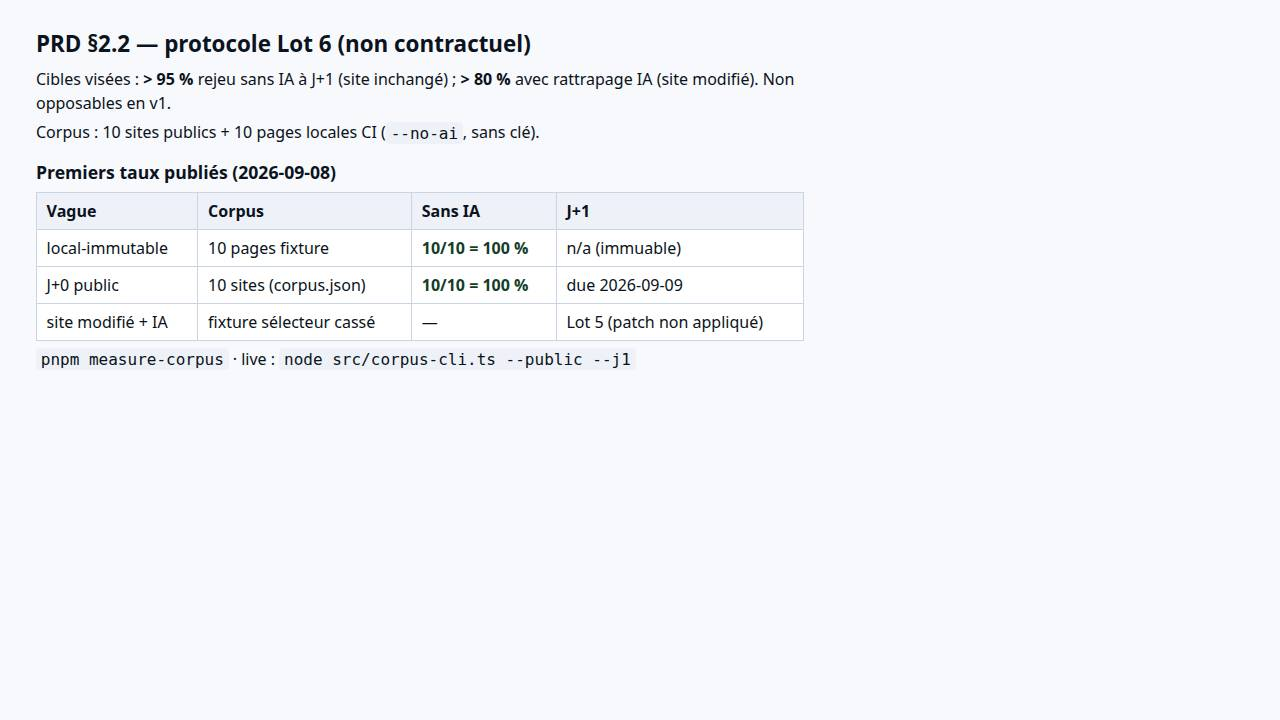
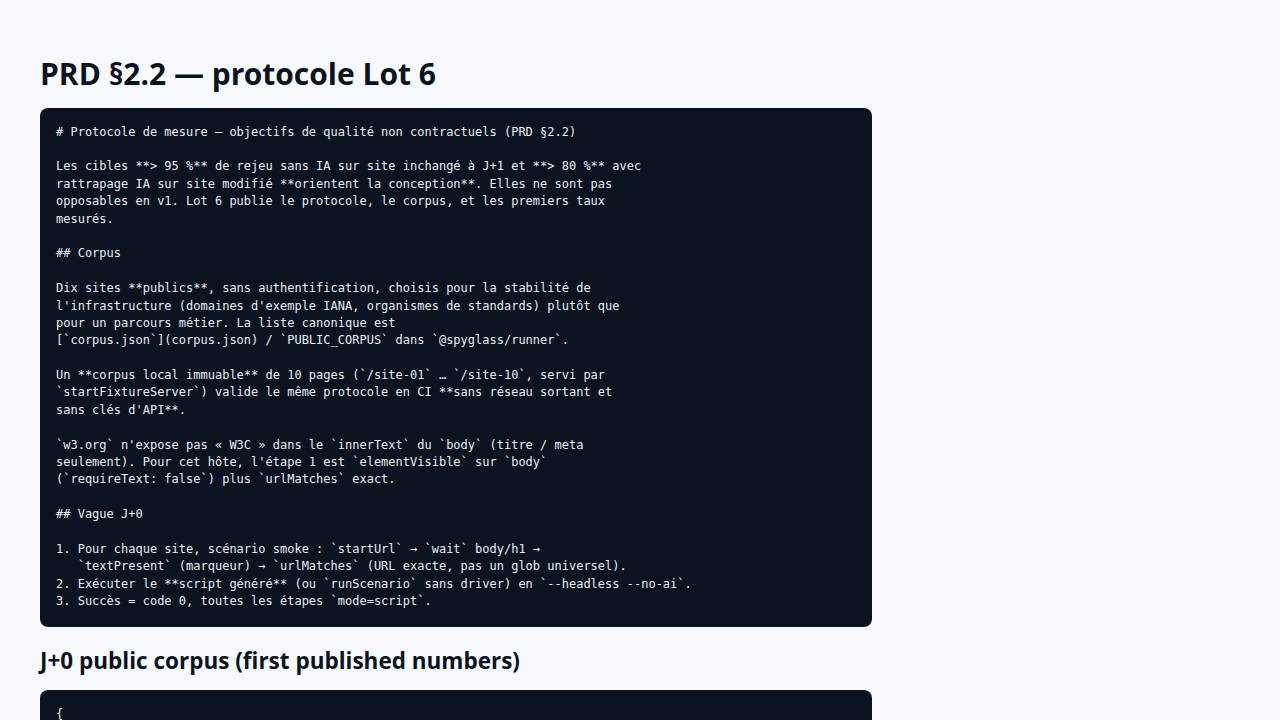
fix(lot-6): capture evidence labels runScenario (L6-015)
Update capture-lot-6.mjs tree HTML and headless footer to import
runScenario (ADR-0006). Regenerate generated-script-tree.png and
headless-run.png so committed proof matches generated scenario.ts.

diff --git a/packages/runner/src/generate.test.ts b/packages/runner/src/generate.test.ts
@@ -2,6 +2,7 @@ import { access, mkdtemp, readFile } from 'node:fs/promises';
 import { tmpdir } from 'node:os';
 import { join } from 'node:path';
 import type { RefinedStep, Scenario } from '@spyglass/contracts';
+import { repoRoot } from '@spyglass/contracts';
 import { describe, expect, it } from 'vitest';
 import {
   generatedReadme,
@@ -84,6 +85,14 @@ describe('Lot 6 generated package (ADR-0006 / F-45)', () => {
     expect(manifest.type).toBe('module');
     expect(manifest.dependencies[RUNNER_PACKAGE]).toBe('0.0.0');
     expect(npmPackageNameForSession('ses_Lot 6!')).toBe('spyglass-scenario-ses-lot-6');
+  });
+
+  it('Lot 6 capture evidence HTML labels runScenario not runGeneratedScript (L6-015)', async () => {
+    const capture = await readFile(join(repoRoot(), 'scripts/capture-lot-6.mjs'), 'utf8');
+    expect(capture).toContain("import { runScenario } from '@spyglass/runner'");
+    expect(capture).toContain('@spyglass/runner runScenario');
+    expect(capture).not.toContain("import { runGeneratedScript } from '@spyglass/runner'");
+    expect(capture).not.toContain('@spyglass/runner runGeneratedScript');
   });
 
   it('is visible by default and wires F-58 flags; CI does not force headless', () => {

diff --git a/docs/lot-6/PR-NOTES.md b/docs/lot-6/PR-NOTES.md
@@ -76,7 +76,7 @@ Lots 0–6) on this branch. CI uses the mock LLM transport (no live keys) for
 
 | File | What it shows |
 | --- | --- |
-| [`screenshots/generated-script-tree.png`](screenshots/generated-script-tree.png) | `generated/` tree (json/ts/README/package.json) |
+| [`screenshots/generated-script-tree.png`](screenshots/generated-script-tree.png) | `generated/` tree (json/ts importing `runScenario`) |
 | [`screenshots/headed-run.png`](screenshots/headed-run.png) | Visible fixture after generated-script click (`#done`) |
 | [`screenshots/headless-run.png`](screenshots/headless-run.png) | `--headless --no-ai` exit 0, no keys, outside Electron |
 | [`screenshots/corpus-protocol-snippet.png`](screenshots/corpus-protocol-snippet.png) | Protocol + first published rates |
@@ -201,6 +201,18 @@ Applied on tip `aad8027192f4cd234aff9609fb2d9978e14c5511`. Product decisions
   rejection.
 
 Unit tests after this pass: **363 passed, 1 skipped**, 50 files
+(`pnpm lint`, `pnpm typecheck`, `pnpm test`).
+
+## Adversarial pass 6 (auto-fix)
+
+Applied on tip `9be988d9ed1ad536ccf91a3cf5b63cdde5e650e4`. Product decisions
+1–5, J1c, and J8c are unchanged.
+
+- **L6-015** `scripts/capture-lot-6.mjs` tree HTML and headless footer label
+  `runScenario` (ADR-0006). Regenerated
+  `docs/lot-6/screenshots/generated-script-tree.png` and `headless-run.png`.
+
+Unit tests after this pass: **364 passed, 1 skipped**, 50 files
 (`pnpm lint`, `pnpm typecheck`, `pnpm test`).
 
 ## Residuals
